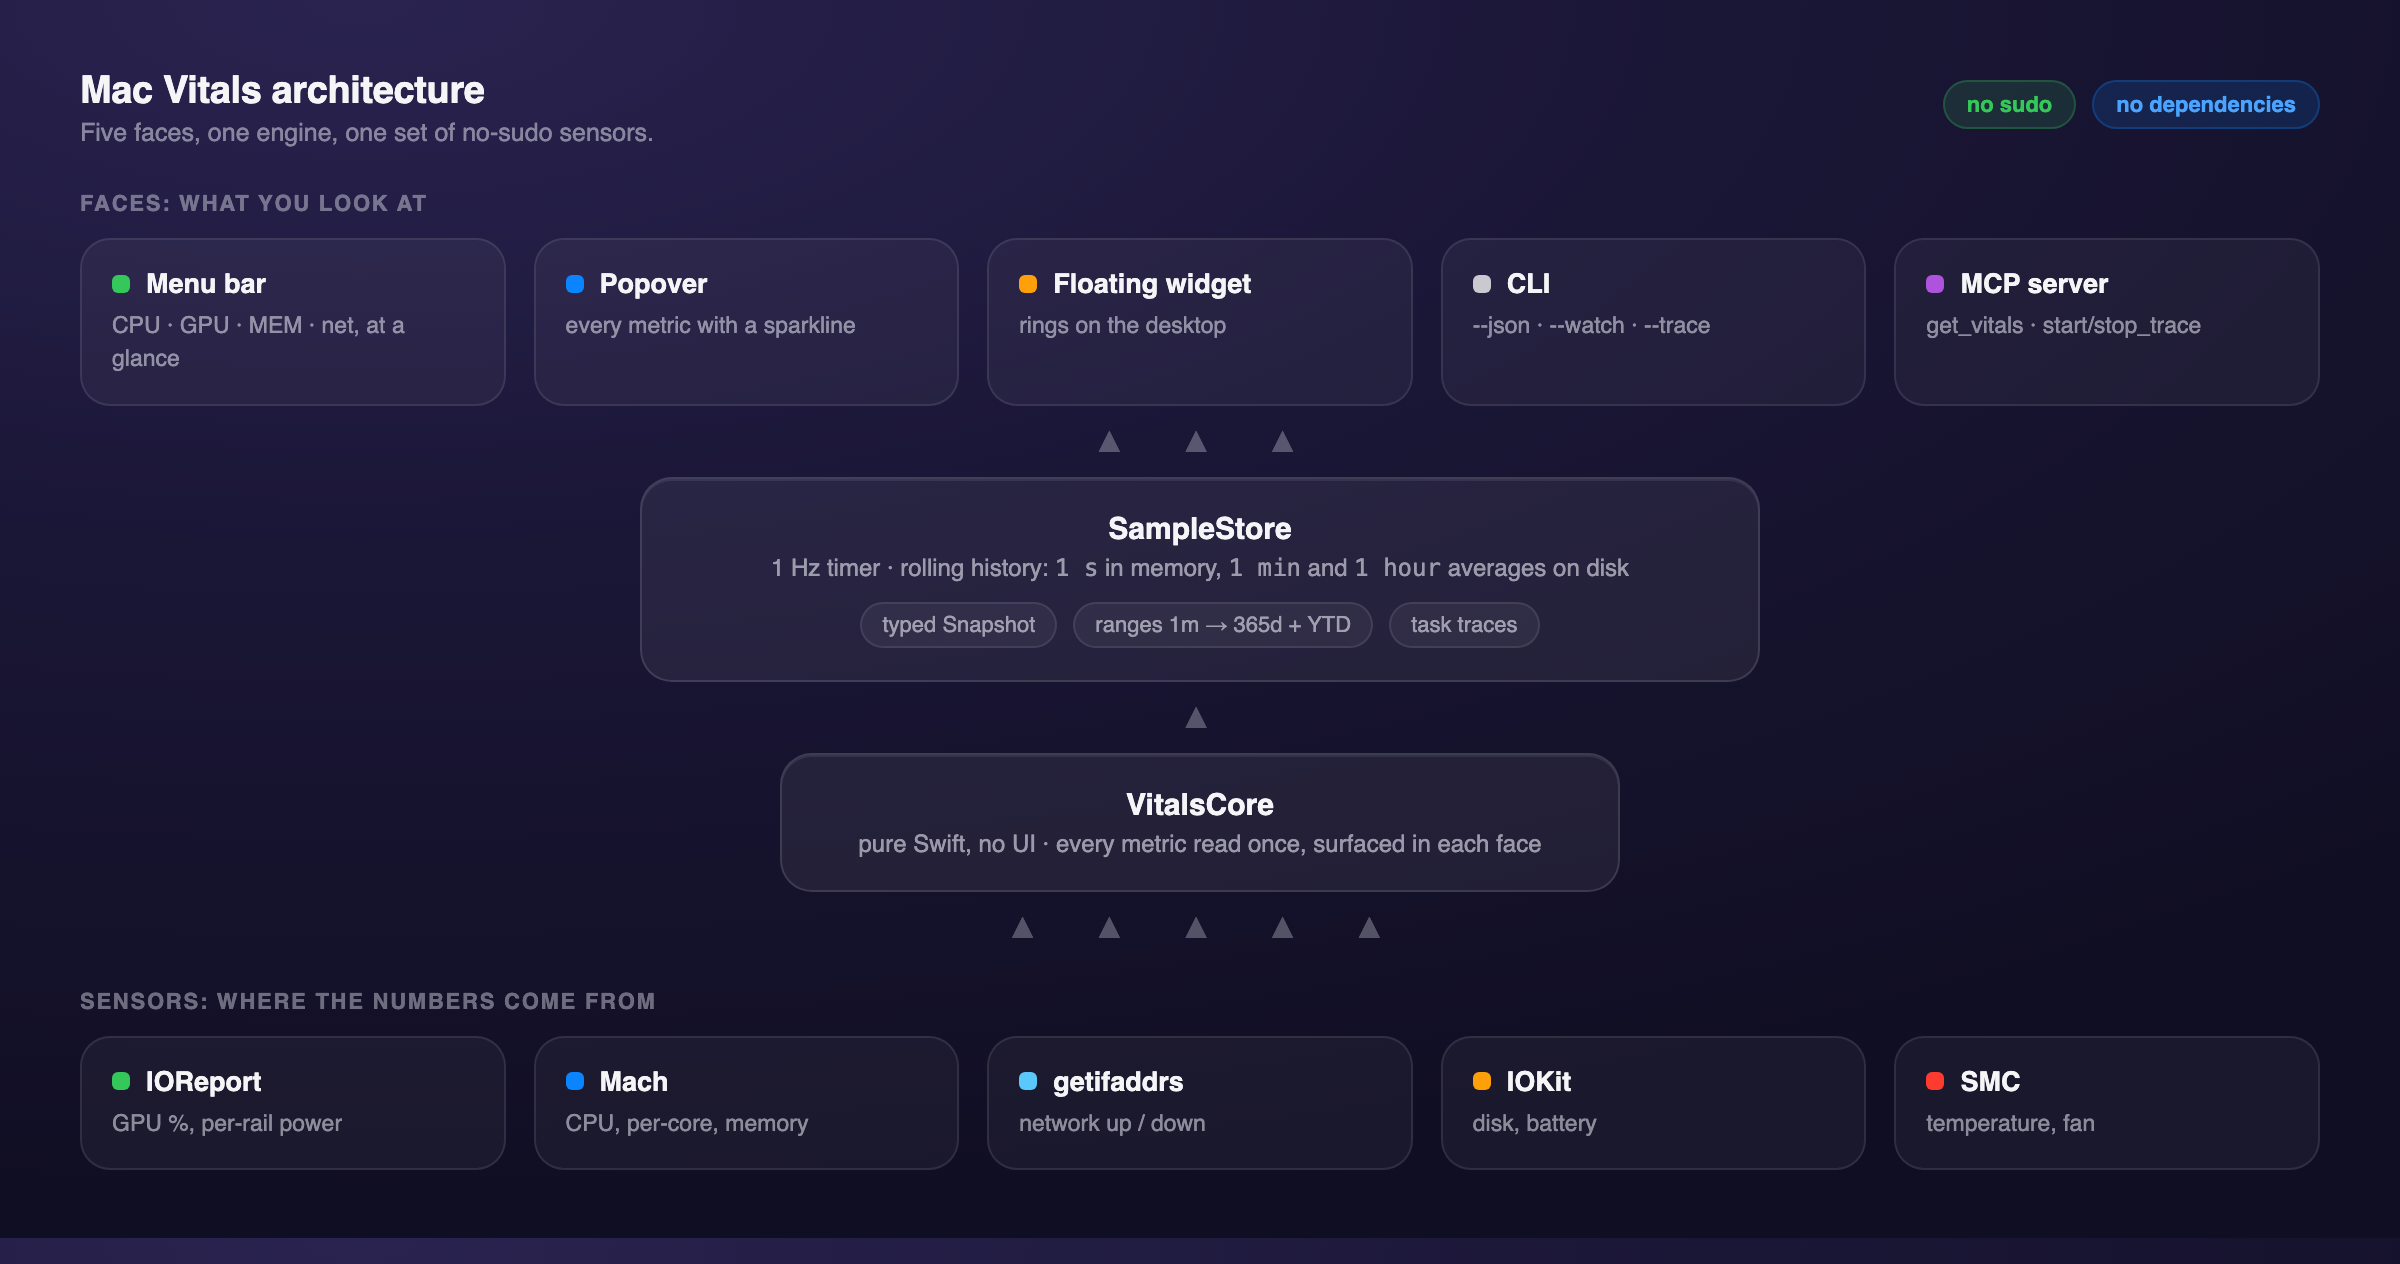
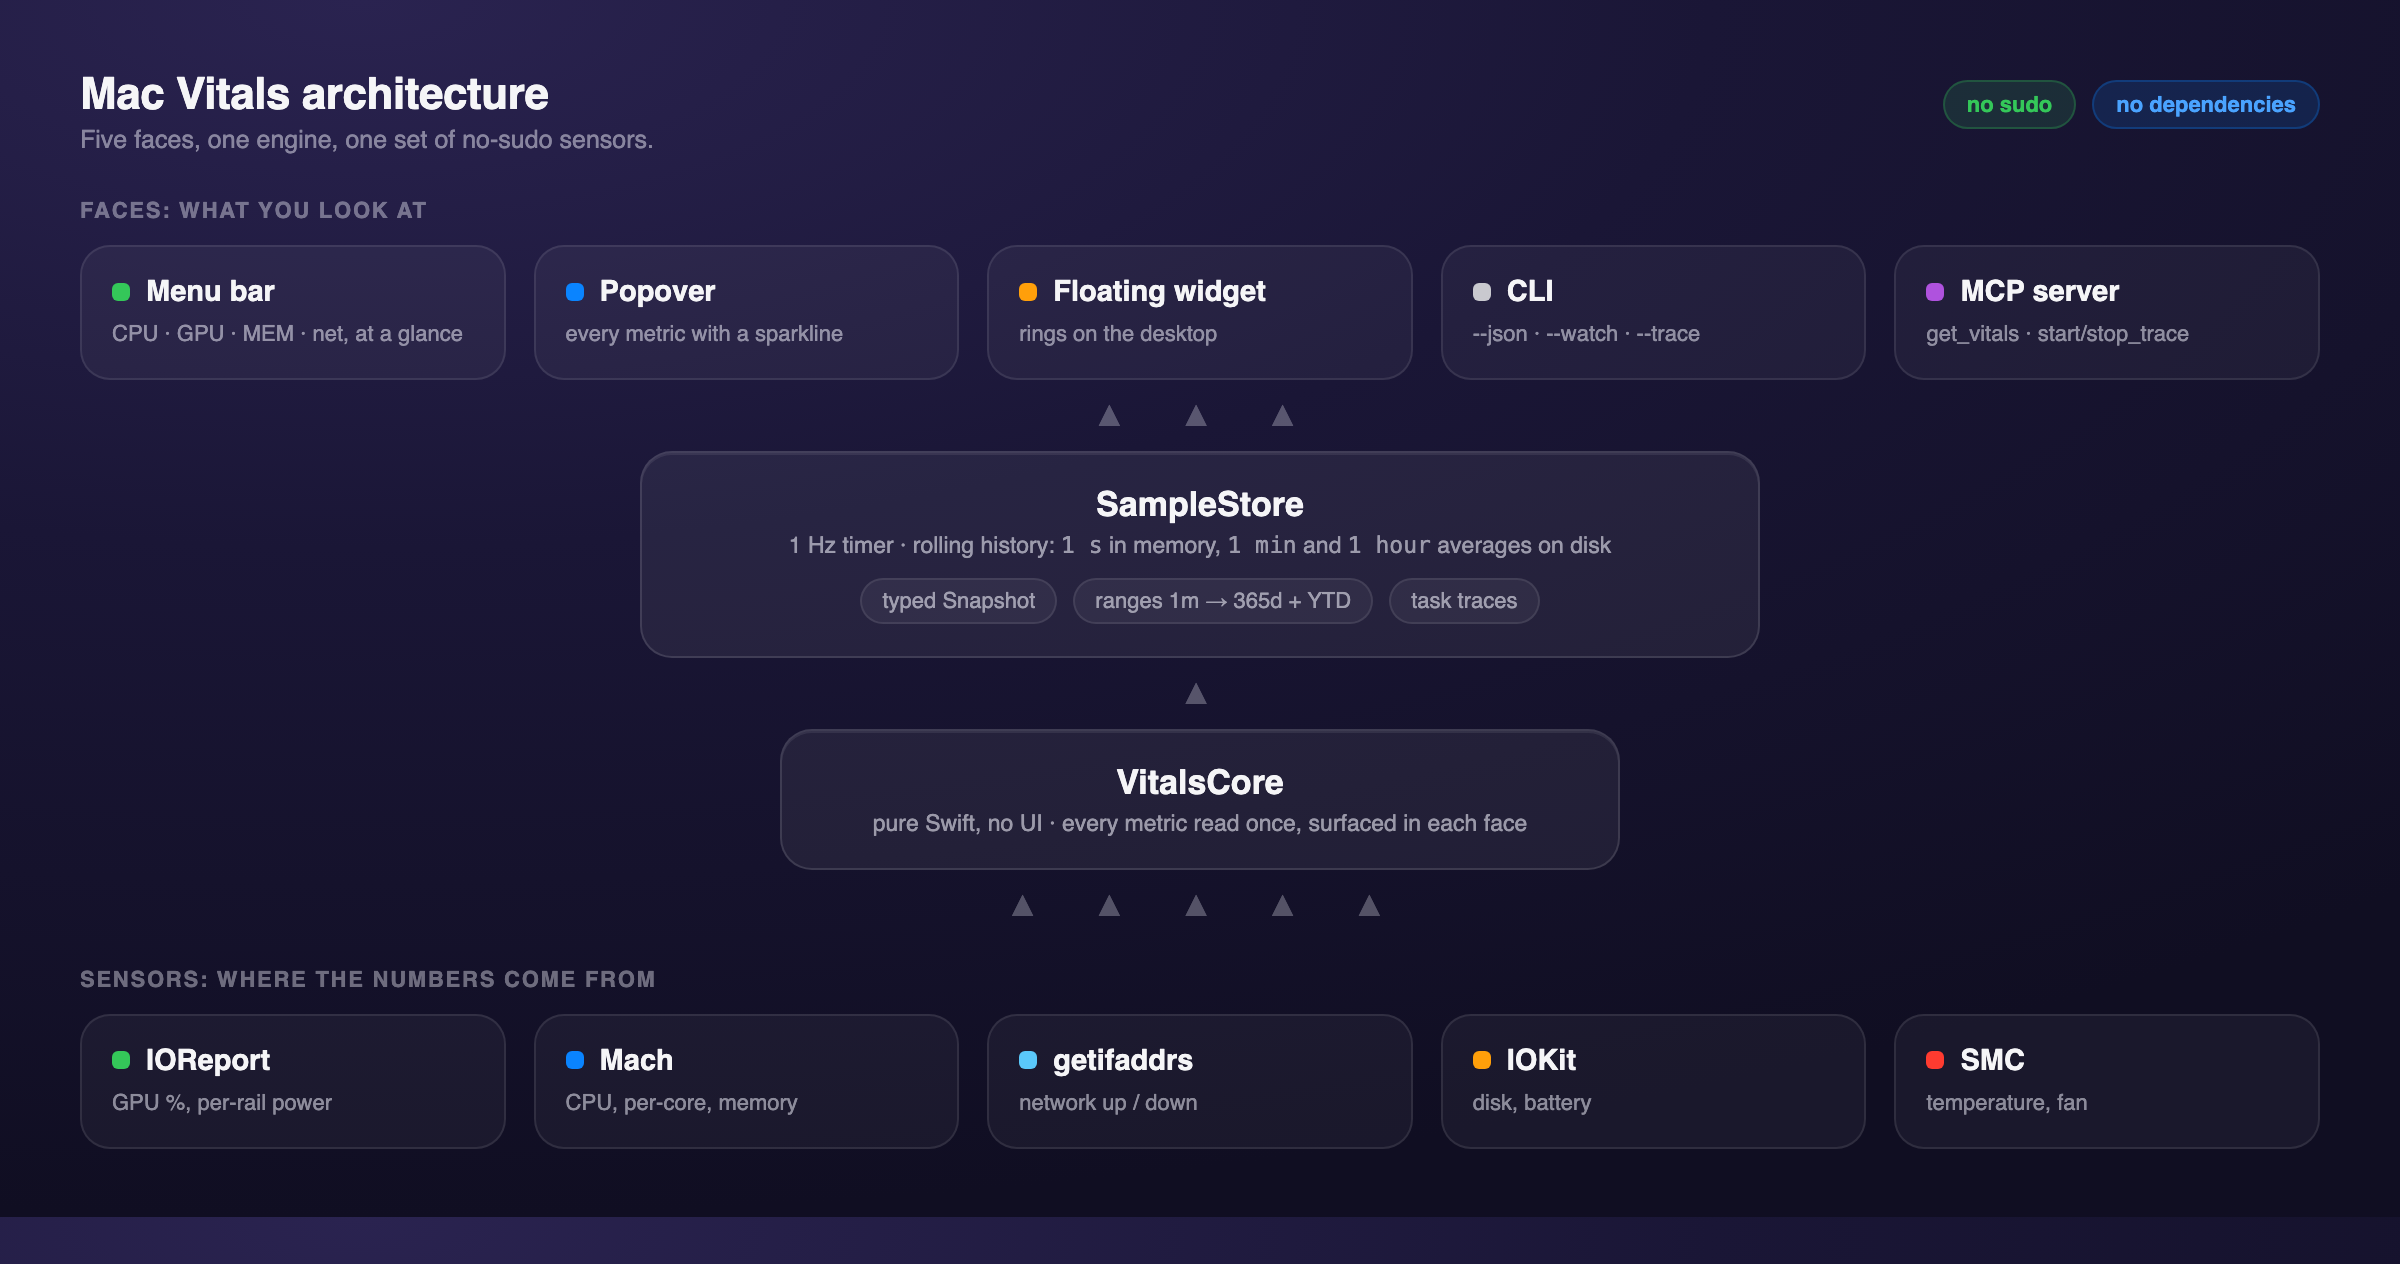
Widen the architecture diagram's type hierarchy
The card title and description sizes were only a 1.17 step apart. Bigger title
and engine names, clearer card title vs description, so the levels read at a
glance. Regenerated docs/architecture.png.

diff --git a/docs/design/architecture.html b/docs/design/architecture.html
@@ -10,7 +10,7 @@
     background: radial-gradient(125% 100% at 15% 0%, #2a2350 0%, #1a1636 45%, #100e22 100%);
     color: #f5f5f7; padding: 34px 40px; position: relative; }
   .num { font-family: "SF Mono", ui-monospace, Menlo, monospace; }
-  h1 { font-size: 19px; font-weight: 600; letter-spacing: -.01em; }
+  h1 { font-size: 22px; font-weight: 600; letter-spacing: -.01em; }
   .sub { font-size: 12.5px; color: rgba(235,235,245,.5); margin-top: 3px; }
 
   .band-label { font-size: 11px; font-weight: 600; letter-spacing: .08em; text-transform: uppercase;
@@ -19,15 +19,15 @@
   .row { display: flex; gap: 14px; }
   .card { flex: 1; border-radius: 15px; padding: 14px 15px;
     background: rgba(255,255,255,.045); border: 1px solid rgba(255,255,255,.09); }
-  .card .t { display: flex; align-items: center; gap: 8px; font-size: 13.5px; font-weight: 600; }
-  .card .d { font-size: 11.5px; color: rgba(235,235,245,.55); margin-top: 5px; line-height: 1.45; }
+  .card .t { display: flex; align-items: center; gap: 8px; font-size: 14.5px; font-weight: 600; }
+  .card .d { font-size: 11px; color: rgba(235,235,245,.55); margin-top: 5px; line-height: 1.45; }
   .dot { width: 9px; height: 9px; border-radius: 3px; flex: none; }
 
   .engine { margin: 0 auto; border-radius: 16px; padding: 16px 20px; text-align: center;
     background: rgba(255,255,255,.06); border: 1px solid rgba(255,255,255,.12);
     box-shadow: inset 0 1px 0 rgba(255,255,255,.08); }
-  .engine .t { font-size: 15px; font-weight: 700; }
-  .engine .d { font-size: 12px; color: rgba(235,235,245,.6); margin-top: 4px; }
+  .engine .t { font-size: 17px; font-weight: 700; }
+  .engine .d { font-size: 11.5px; color: rgba(235,235,245,.6); margin-top: 4px; }
 
   .store { max-width: 560px; }
   .flow { text-align: center; color: rgba(235,235,245,.3); font-size: 15px; letter-spacing: 4px; margin: 9px 0; }
